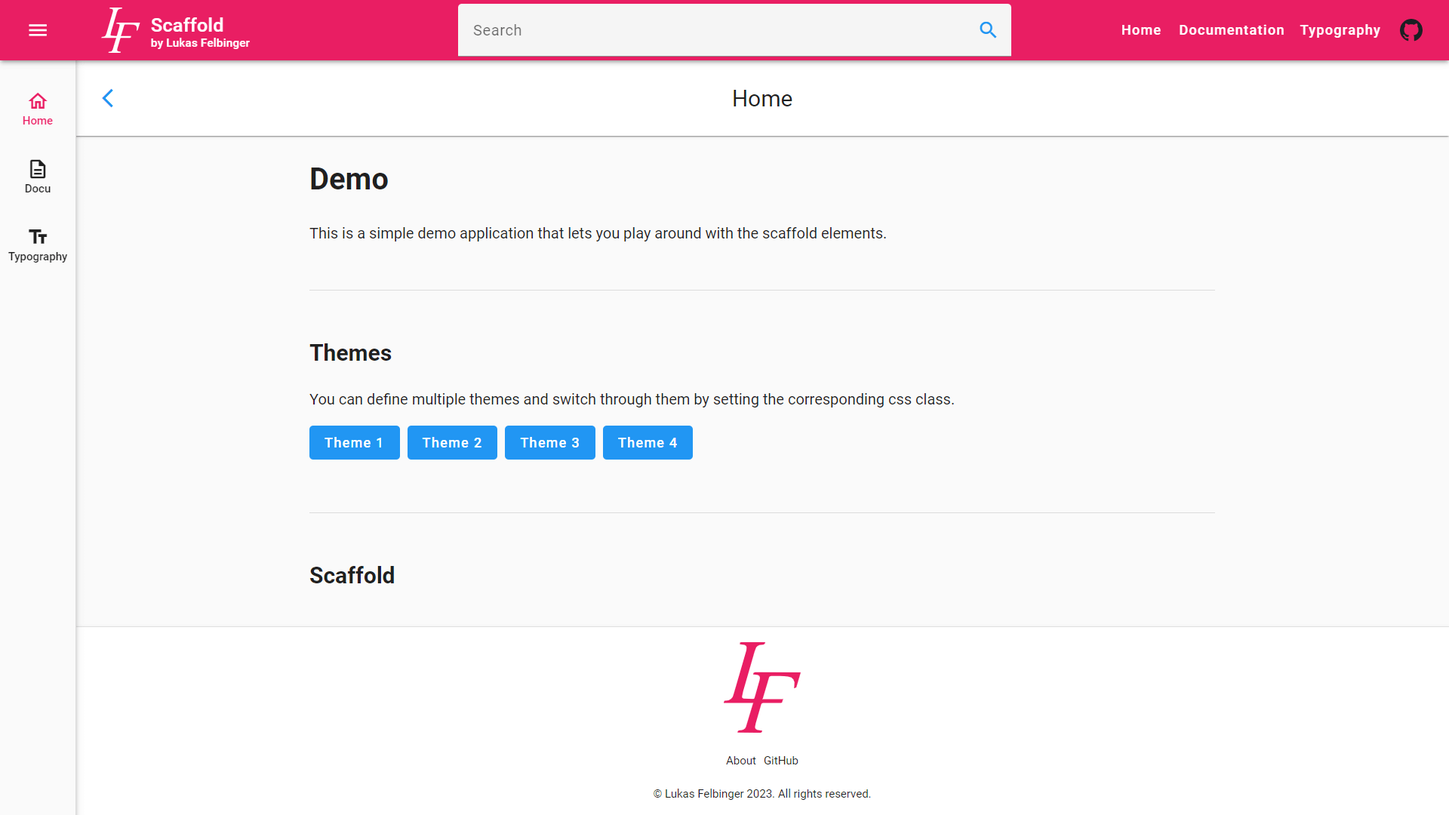
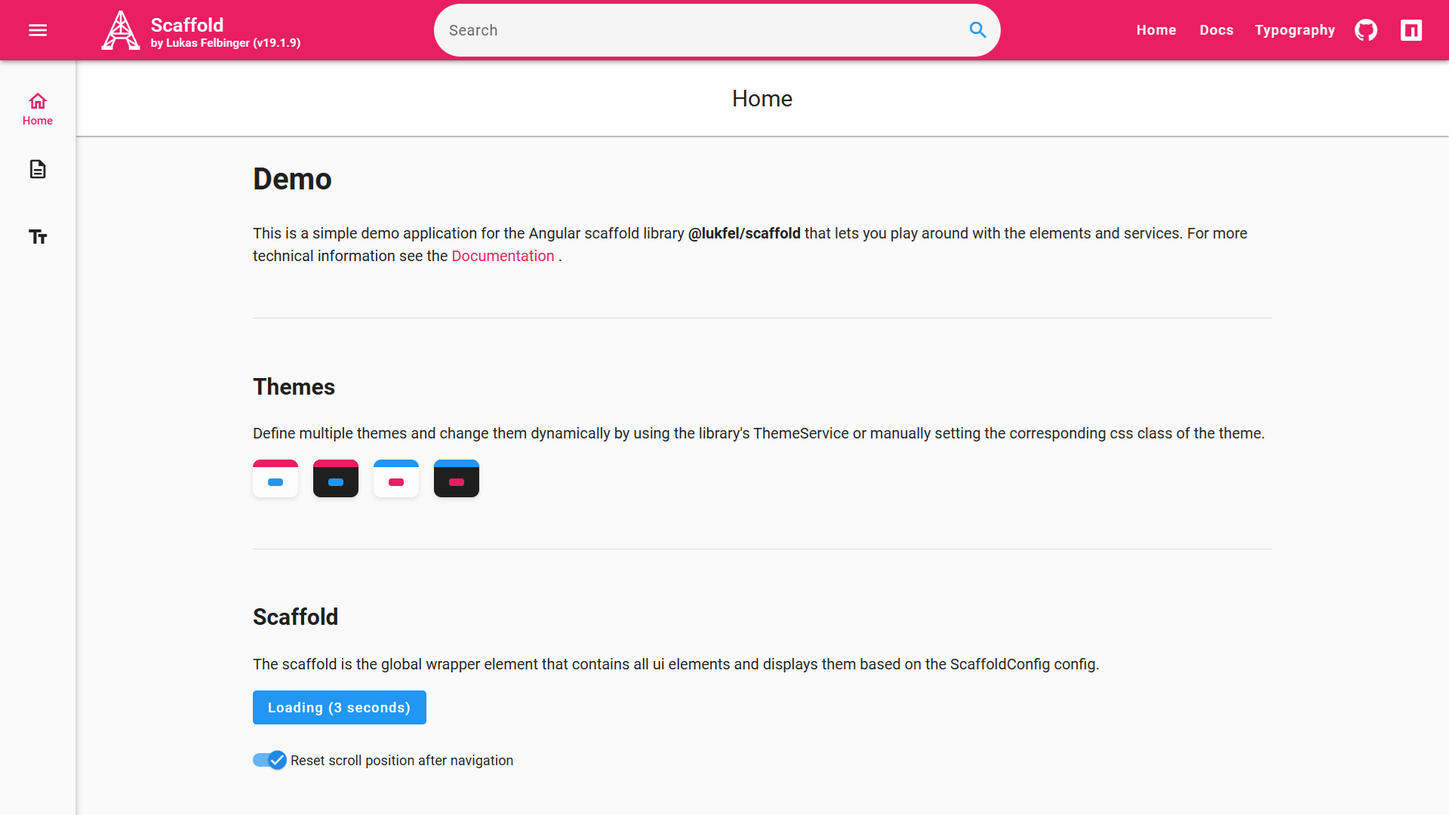
Auto-generated commit

diff --git a/chunk-QRNLTUWT.js b/chunk-QRNLTUWT.js
@@ -1,0 +1,1 @@
+import{a as se}from"./chunk-F6NTNXR2.js";import{a as pe}from"./chunk-O557RS5J.js";import{$ as x,$a as K,B as d,C as _,Fb as le,Ja as H,Jb as ge,K as m,L as M,La as L,Ma as z,N as O,Na as Y,O as B,P as w,Qa as q,Rb as me,S as f,Sa as G,Sb as de,Tb as _e,U as i,V as o,W as C,Wb as ce,X as S,Y as b,Z as T,_ as h,_a as J,aa as g,ab as Q,cb as U,d as I,da as V,db as X,ea as a,eb as Z,fa as k,fb as $,ga as y,ha as c,hb as ee,ia as s,ja as p,ka as W,la as P,mb as te,oa as F,pb as ne,qa as D,ta as R,tb as ie,ua as N,ub as oe,v,va as j,vb as ae,xa as A,yb as re}from"./chunk-YO5GDWHF.js";var xe=()=>["/documentation"],we=l=>({menuButton:l,isLeftButton:!0}),Se=l=>({menuButton:l}),be=()=>["left","center","right"];function Me(l,u){if(l&1&&(S(0),T(1,18),b()),l&2){let t=u.$implicit;g(4);let r=V(2);m(),f("ngTemplateOutlet",r)("ngTemplateOutletContext",P(2,Se,t))}}function ye(l,u){if(l&1){let t=h();i(0,"h4"),a(1,"Left Button (Icon only)"),o(),T(2,18),i(3,"h4"),a(4,"Right Buttons (Label has priority over icon)"),o(),w(5,Me,2,4,"ng-container",19),i(6,"button",13),x("click",function(){d(t);let e=g(3);return _(e.addHeaderButton(!1))}),a(7," Add right menu button "),o()}if(l&2){let t=g(3),r=V(2);m(2),f("ngTemplateOutlet",r)("ngTemplateOutletContext",P(3,we,t.headerConfig.leftMenuButton)),m(3),f("ngForOf",t.headerConfig.rightMenuButtons)}}function ve(l,u){if(l&1){let t=h();S(0),i(1,"h2"),a(2,"Header"),o(),i(3,"p"),a(4," The header is a fixed responsive toolbar with a customizable logo, title, subtitle, menu-buttons and an input field. "),o(),i(5,"p")(6,"mat-slide-toggle",14),p("ngModelChange",function(e){d(t);let n=g(2);return s(n.headerConfig.enable,e)||(n.headerConfig.enable=e),_(e)}),a(7,"Enable"),o()(),i(8,"p")(9,"mat-slide-toggle",14),p("ngModelChange",function(e){d(t);let n=g(2);return s(n.headerConfig.loading,e)||(n.headerConfig.loading=e),_(e)}),a(10,"Loading"),o()(),i(11,"p")(12,"mat-slide-toggle",14),p("ngModelChange",function(e){d(t);let n=g(2);return s(n.headerConfig.showRouteLoading,e)||(n.headerConfig.showRouteLoading=e),_(e)}),a(13," Show header loading on navigation "),o()(),i(14,"mat-form-field")(15,"mat-label"),a(16,"Image Logo (url)"),o(),i(17,"input",16),p("ngModelChange",function(e){d(t);let n=g(2);return s(n.headerConfig.imgLogo,e)||(n.headerConfig.imgLogo=e),_(e)}),x("ngModelChange",function(e){d(t);let n=g(2);return _(n.headerImgLogoChange(e))}),o()(),i(18,"mat-form-field")(19,"mat-label"),a(20,"Titel"),o(),i(21,"input",16),p("ngModelChange",function(e){d(t);let n=g(2);return s(n.headerConfig.title,e)||(n.headerConfig.title=e),_(e)}),o()(),i(22,"mat-form-field")(23,"mat-label"),a(24,"Subtitel"),o(),i(25,"input",16),p("ngModelChange",function(e){d(t);let n=g(2);return s(n.headerConfig.subtitle,e)||(n.headerConfig.subtitle=e),_(e)}),o()(),i(26,"h3"),a(27,"Header Menu Buttons"),o(),i(28,"mat-expansion-panel")(29,"mat-expansion-panel-header"),a(30,"Edit Buttons"),o(),w(31,ye,8,5,"ng-template",17),o(),i(32,"h3"),a(33,"Header Input Field"),o(),i(34,"p")(35,"mat-slide-toggle",14),p("ngModelChange",function(e){d(t);let n=g(2);return s(n.headerConfig.inputConfig.enable,e)||(n.headerConfig.inputConfig.enable=e),_(e)}),a(36,"Enable"),o()(),i(37,"p"),a(38),o(),i(39,"mat-form-field")(40,"mat-label"),a(41,"Label"),o(),i(42,"input",16),p("ngModelChange",function(e){d(t);let n=g(2);return s(n.headerConfig.inputConfig.label,e)||(n.headerConfig.inputConfig.label=e),_(e)}),o()(),i(43,"mat-form-field")(44,"mat-label"),a(45,"Material Icon"),o(),i(46,"input",16),p("ngModelChange",function(e){d(t);let n=g(2);return s(n.headerConfig.inputConfig.matIconSubmit,e)||(n.headerConfig.inputConfig.matIconSubmit=e),_(e)}),o()(),C(47,"mat-divider"),b()}if(l&2){let t=g(2);m(6),c("ngModel",t.headerConfig.enable),m(3),c("ngModel",t.headerConfig.loading),m(3),c("ngModel",t.headerConfig.showRouteLoading),m(5),c("ngModel",t.headerConfig.imgLogo),m(4),c("ngModel",t.headerConfig.title),m(4),c("ngModel",t.headerConfig.subtitle),m(10),c("ngModel",t.headerConfig.inputConfig.enable),m(3),y("\xA0Value: ",t.inputValue||"empty",""),m(4),c("ngModel",t.headerConfig.inputConfig.label),m(4),c("ngModel",t.headerConfig.inputConfig.matIconSubmit)}}function Be(l,u){if(l&1){let t=h();S(0),i(1,"h2"),a(2,"Title Card"),o(),i(3,"p"),a(4," The title card is a card below the header that can display a custom label such as a page title and also has a back button. "),o(),i(5,"p")(6,"mat-slide-toggle",14),p("ngModelChange",function(e){d(t);let n=g(2);return s(n.contentTitleCardConfig.enable,e)||(n.contentTitleCardConfig.enable=e),_(e)}),a(7,"Enable"),o()(),i(8,"p")(9,"mat-slide-toggle",14),p("ngModelChange",function(e){d(t);let n=g(2);return s(n.contentTitleCardConfig.showBackButton,e)||(n.contentTitleCardConfig.showBackButton=e),_(e)}),a(10," Show back button "),o()(),i(11,"mat-form-field")(12,"mat-label"),a(13,"Label"),o(),i(14,"input",16),p("ngModelChange",function(e){d(t);let n=g(2);return s(n.contentTitleCardConfig.label,e)||(n.contentTitleCardConfig.label=e),_(e)}),o()(),C(15,"mat-divider"),b()}if(l&2){let t=g(2);m(6),c("ngModel",t.contentTitleCardConfig.enable),m(3),c("ngModel",t.contentTitleCardConfig.showBackButton),m(5),c("ngModel",t.contentTitleCardConfig.label)}}function Ee(l,u){if(l&1){let t=h();S(0),i(1,"h2"),a(2,"Navbar"),o(),i(3,"p"),a(4," The navbar is a fixed navigation element that is positioned vertically left on desktop and responsively moves to the bottom horizontally on mobile. It can show up to 5 navigation items. "),o(),i(5,"p")(6,"mat-slide-toggle",14),p("ngModelChange",function(e){d(t);let n=g(2);return s(n.navbarConfig.enable,e)||(n.navbarConfig.enable=e),_(e)}),a(7,"Enable"),o()(),i(8,"p")(9,"mat-slide-toggle",14),p("ngModelChange",function(e){d(t);let n=g(2);return s(n.navbarConfig.showAllLabels,e)||(n.navbarConfig.showAllLabels=e),_(e)}),a(10," Always show labels "),o()(),C(11,"mat-divider"),b()}if(l&2){let t=g(2);m(6),c("ngModel",t.navbarConfig.enable),m(3),c("ngModel",t.navbarConfig.showAllLabels)}}function Te(l,u){if(l&1){let t=h();S(0),i(1,"h2"),a(2,"Drawer"),o(),i(3,"p"),a(4," The drawer is a collapsible element that allows you to place custom dynamic side content. It is responsive and changes to overlay mode on mobile. "),o(),i(5,"p")(6,"mat-slide-toggle",14),p("ngModelChange",function(e){d(t);let n=g(2);return s(n.drawerConfig.enable,e)||(n.drawerConfig.enable=e),_(e)}),a(7,"Enable"),o()(),i(8,"p")(9,"mat-slide-toggle",14),p("ngModelChange",function(e){d(t);let n=g(2);return s(n.drawerConfig.open,e)||(n.drawerConfig.open=e),_(e)}),a(10,"Open"),o()(),i(11,"p")(12,"mat-slide-toggle",14),p("ngModelChange",function(e){d(t);let n=g(2);return s(n.drawerConfig.fixed,e)||(n.drawerConfig.fixed=e),_(e)}),a(13,"Fixed"),o()(),i(14,"p"),a(15," Content can either be set 1) by using content projection "),i(16,"code"),a(17,"<ng-content drawerContent>"),o(),a(18," or 2) by using the component portal "),i(19,"code"),a(20,"scaffoldService.drawerPortal"),o(),a(21," . "),o(),i(22,"button",13),x("click",function(){d(t);let e=g(2);return _(e.updateDrawerContent(!0))}),a(23,"1 Navigation"),o(),i(24,"button",20),x("click",function(){d(t);let e=g(2);return _(e.updateDrawerContent(!1))}),a(25," 2 Not found "),o(),C(26,"mat-divider"),b()}if(l&2){let t=g(2);m(6),c("ngModel",t.drawerConfig.enable),m(3),c("ngModel",t.drawerConfig.open),m(3),c("ngModel",t.drawerConfig.fixed)}}function Ve(l,u){if(l&1){let t=h();S(0),i(1,"h2"),a(2,"Footer"),o(),i(3,"p"),a(4,"The footer is a simple bottom element with a logo, navigation links and the copyright."),o(),i(5,"p")(6,"mat-slide-toggle",14),p("ngModelChange",function(e){d(t);let n=g(2);return s(n.footerConfig.enable,e)||(n.footerConfig.enable=e),_(e)}),a(7,"Enable"),o()(),i(8,"mat-form-field")(9,"mat-label"),a(10,"Image Logo (url)"),o(),i(11,"input",16),p("ngModelChange",function(e){d(t);let n=g(2);return s(n.footerConfig.imgLogo,e)||(n.footerConfig.imgLogo=e),_(e)}),x("ngModelChange",function(e){d(t);let n=g(2);return _(n.footerImgLogoChange(e))}),o()(),i(12,"mat-form-field")(13,"mat-label"),a(14,"Copyright"),o(),i(15,"input",16),p("ngModelChange",function(e){d(t);let n=g(2);return s(n.footerConfig.copyright,e)||(n.footerConfig.copyright=e),_(e)}),o()(),C(16,"mat-divider"),b()}if(l&2){let t=g(2);m(6),c("ngModel",t.footerConfig.enable),m(5),c("ngModel",t.footerConfig.imgLogo),m(4),c("ngModel",t.footerConfig.copyright)}}function We(l,u){if(l&1&&(i(0,"mat-icon",25),a(1),o()),l&2){let t=g(3);m(),y(" ",t.floatingButtonConfig.matIcon," ")}}function Pe(l,u){if(l&1){let t=h();i(0,"mat-slide-toggle",26),p("ngModelChange",function(e){d(t);let n=g(3);return s(n.floatingButtonConfig.outlineIcon,e)||(n.floatingButtonConfig.outlineIcon=e),_(e)}),a(1," Outlined \xA0\xA0 "),o()}if(l&2){let t=g(3);c("ngModel",t.floatingButtonConfig.outlineIcon)}}function Le(l,u){if(l&1&&(i(0,"mat-option",27),a(1),o()),l&2){let t=u.$implicit;f("value",t),m(),y(" ",t," ")}}function Ie(l,u){if(l&1){let t=h();S(0),i(1,"h2"),a(2,"Floating Button"),o(),i(3,"p"),a(4," The floating button is a fixed action button that scrolls to the top on default, but you can also add an id for custom actions. By adding a label, the button will expand into a rounded rectangle shape. "),o(),i(5,"p")(6,"mat-slide-toggle",14),p("ngModelChange",function(e){d(t);let n=g(2);return s(n.floatingButtonConfig.enable,e)||(n.floatingButtonConfig.enable=e),_(e)}),a(7,"Enable"),o()(),i(8,"mat-form-field")(9,"mat-label"),a(10,"Event id"),o(),i(11,"input",16),p("ngModelChange",function(e){d(t);let n=g(2);return s(n.floatingButtonConfig.id,e)||(n.floatingButtonConfig.id=e),_(e)}),o()(),i(12,"mat-form-field")(13,"mat-label"),a(14,"Label"),o(),i(15,"input",16),p("ngModelChange",function(e){d(t);let n=g(2);return s(n.floatingButtonConfig.label,e)||(n.floatingButtonConfig.label=e),_(e)}),o()(),i(16,"mat-form-field",21)(17,"mat-label"),a(18,"Material Icon"),o(),i(19,"input",16),p("ngModelChange",function(e){d(t);let n=g(2);return s(n.floatingButtonConfig.matIcon,e)||(n.floatingButtonConfig.matIcon=e),_(e)}),o(),w(20,We,2,1,"mat-icon",22)(21,Pe,2,1,"mat-slide-toggle",23),o(),i(22,"mat-form-field")(23,"mat-label"),a(24,"Position"),o(),i(25,"mat-select",14),p("ngModelChange",function(e){d(t);let n=g(2);return s(n.floatingButtonConfig.horizontalPosition,e)||(n.floatingButtonConfig.horizontalPosition=e),_(e)}),w(26,Le,2,2,"mat-option",24),o()(),i(27,"mat-form-field")(28,"mat-label"),a(29,"Tooltip"),o(),i(30,"input",16),p("ngModelChange",function(e){d(t);let n=g(2);return s(n.floatingButtonConfig.tooltip,e)||(n.floatingButtonConfig.tooltip=e),_(e)}),o()(),C(31,"mat-divider"),b()}if(l&2){let t=g(2);m(6),c("ngModel",t.floatingButtonConfig.enable),m(5),c("ngModel",t.floatingButtonConfig.id),m(4),c("ngModel",t.floatingButtonConfig.label),m(4),c("ngModel",t.floatingButtonConfig.matIcon),m(),f("ngIf",t.floatingButtonConfig.matIcon),m(),f("ngIf",t.floatingButtonConfig==null?null:t.floatingButtonConfig.matIcon),m(4),c("ngModel",t.floatingButtonConfig.horizontalPosition),m(),f("ngForOf",W(9,be)),m(4),c("ngModel",t.floatingButtonConfig.tooltip)}}function Oe(l,u){if(l&1){let t=h();i(0,"p")(1,"mat-checkbox",14),p("ngModelChange",function(e){let n=d(t).$implicit;return s(n.checked,e)||(n.checked=e),_(e)}),x("ngModelChange",function(){d(t);let e=g(3);return _(e.selectBottomBarItem())}),a(2),o()()}if(l&2){let t=u.$implicit;m(),c("ngModel",t.checked),m(),y(" ",t.label," ")}}function ke(l,u){if(l&1&&(S(0),i(1,"h2"),a(2,"Bottom Bar"),o(),i(3,"p"),a(4," The bottom bar is a fixed element at the bottom of the page and above the mobile navbar (if enabled). It can be used to handle custom bulk actions for selected items in large lists. "),o(),i(5,"p"),a(6,"(select items to test the bottom bar)"),o(),w(7,Oe,3,2,"p",19),b()),l&2){let t=g(2);m(7),f("ngForOf",t.bottomBarDemoList)}}function Fe(l,u){if(l&1){let t=h();i(0,"div",2)(1,"h1"),a(2,"Demo"),o(),i(3,"p"),a(4," This is a simple demo application for the Angular scaffold library "),i(5,"b"),a(6,"@lukfel/scaffold"),o(),a(7," that lets you play around with the elements and services. For more technical information see the "),i(8,"a",3),a(9,"Documentation"),o(),a(10," . "),o(),C(11,"mat-divider"),i(12,"h2"),a(13,"Themes"),o(),i(14,"p"),a(15," Define multiple themes and change them dynamically by using the library's ThemeService or manually setting the corresponding css class of the theme. "),o(),i(16,"div",4)(17,"div",5),x("click",function(){d(t);let e=g();return _(e.setTheme(""))}),i(18,"div",6),C(19,"div",7),i(20,"div",8),C(21,"div",9),o()()(),i(22,"div",10),x("click",function(){d(t);let e=g();return _(e.setTheme("theme2"))}),i(23,"div",6),C(24,"div",7),i(25,"div",8),C(26,"div",9),o()()(),i(27,"div",5),x("click",function(){d(t);let e=g();return _(e.setTheme("theme3"))}),i(28,"div",6),C(29,"div",11),i(30,"div",8),C(31,"div",12),o()()(),i(32,"div",10),x("click",function(){d(t);let e=g();return _(e.setTheme("theme4"))}),i(33,"div",6),C(34,"div",11),i(35,"div",8),C(36,"div",12),o()()()(),C(37,"mat-divider"),i(38,"h2"),a(39,"Scaffold"),o(),i(40,"p"),a(41," The scaffold is the global wrapper element that contains all ui elements and displays them based on the ScaffoldConfig config. "),o(),i(42,"p")(43,"button",13),x("click",function(){d(t);let e=g();return _(e.showContainerLoading())}),a(44," Loading (3 seconds) "),o()(),i(45,"p")(46,"mat-slide-toggle",14),p("ngModelChange",function(e){d(t);let n=g();return s(n.scaffoldConfig.scrollPositionRestoration,e)||(n.scaffoldConfig.scrollPositionRestoration=e),_(e)}),a(47," Reset scroll position after navigation "),o()(),C(48,"mat-divider"),w(49,ve,48,10,"ng-container",15)(50,Be,16,3,"ng-container",15)(51,Ee,12,2,"ng-container",15)(52,Te,27,3,"ng-container",15)(53,Ve,17,3,"ng-container",15)(54,Ie,32,10,"ng-container",15)(55,ke,8,1,"ng-container",15),i(56,"p"),C(57,"br"),o()()}if(l&2){let t=g();m(8),f("routerLink",W(9,xe)),m(38),c("ngModel",t.scaffoldConfig.scrollPositionRestoration),m(3),f("ngIf",t.headerConfig),m(),f("ngIf",t.contentTitleCardConfig),m(),f("ngIf",t.navbarConfig),m(),f("ngIf",t.drawerConfig),m(),f("ngIf",t.footerConfig),m(),f("ngIf",t.floatingButtonConfig),m(),f("ngIf",t.bottomBarConfig)}}function De(l,u){if(l&1&&(i(0,"mat-icon",25),a(1),o()),l&2){let t=g(2).menuButton;m(),k(t.matIcon)}}function Re(l,u){if(l&1){let t=h();i(0,"mat-slide-toggle",26),p("ngModelChange",function(e){d(t);let n=g(2).menuButton;return s(n.outlineIcon,e)||(n.outlineIcon=e),_(e)}),a(1," Outlined \xA0\xA0 "),o()}if(l&2){let t=g(2).menuButton;c("ngModel",t.outlineIcon)}}function Ne(l,u){if(l&1){let t=h();i(0,"div",29)(1,"mat-form-field")(2,"mat-label"),a(3,"Event id"),o(),i(4,"input",16),p("ngModelChange",function(e){d(t);let n=g().menuButton;return s(n.id,e)||(n.id=e),_(e)}),o()(),i(5,"mat-form-field")(6,"mat-label"),a(7,"Label"),o(),i(8,"input",30),p("ngModelChange",function(e){d(t);let n=g().menuButton;return s(n.label,e)||(n.label=e),_(e)}),o()(),i(9,"mat-form-field",21)(10,"mat-label"),a(11,"Material Icon"),o(),i(12,"input",16),p("ngModelChange",function(e){d(t);let n=g().menuButton;return s(n.matIcon,e)||(n.matIcon=e),_(e)}),o(),w(13,De,2,1,"mat-icon",22)(14,Re,2,1,"mat-slide-toggle",23),o(),i(15,"mat-form-field")(16,"mat-label"),a(17,"Tooltop"),o(),i(18,"input",16),p("ngModelChange",function(e){d(t);let n=g().menuButton;return s(n.tooltip,e)||(n.tooltip=e),_(e)}),o()(),i(19,"button",31),x("click",function(){d(t);let e=g(),n=e.menuButton,E=e.isLeftButton,he=g();return _(he.removeHeaderButton(n,E))}),i(20,"mat-icon"),a(21,"delete"),o()()()}if(l&2){let t=g(),r=t.menuButton,e=t.isLeftButton;m(4),c("ngModel",r.id),m(4),f("disabled",e),c("ngModel",r.label),m(4),c("ngModel",r.matIcon),m(),f("ngIf",r.matIcon),m(),f("ngIf",r.matIcon),m(4),c("ngModel",r.tooltip)}}function je(l,u){if(l&1&&w(0,Ne,22,7,"div",28),l&2){let t=u.menuButton;f("ngIf",t)}}var ue=(()=>{class l{constructor(t,r,e,n,E){this.scaffoldService=t,this.themeService=r,this.dialogService=e,this.logger=n,this.cd=E,this.scaffoldConfig={},this.headerConfig={},this.navbarConfig={},this.drawerConfig={},this.footerConfig={},this.contentTitleCardConfig={},this.floatingButtonConfig={},this.bottomBarConfig={},this.bottomBarDemoList=[{checked:!1,label:"Demo item 1"},{checked:!1,label:"Demo item 2"},{checked:!1,label:"Demo item 3"}],this.inputValue="",this._subscription=new I}ngOnInit(){this._subscription.add(this.scaffoldService.scaffoldConfig$.subscribe(t=>{this.scaffoldConfig=t,this.headerConfig=this.scaffoldConfig.headerConfig,this.navbarConfig=this.scaffoldConfig.navbarConfig,this.drawerConfig=this.scaffoldConfig.drawerConfig,this.footerConfig=this.scaffoldConfig.footerConfig,this.contentTitleCardConfig=this.scaffoldConfig.contentTitleCardConfig,this.contentTitleCardConfig&&(this.contentTitleCardConfig.label="Home"),this.floatingButtonConfig=this.scaffoldConfig.floatingButtonConfig,this.bottomBarConfig=this.scaffoldConfig.bottomBarConfig})),this._subscription.add(this.scaffoldService.buttonClickEventValue$.subscribe(t=>{t==="bottom-bar_submit"?this.bottomBarButtonClicked():t==="bottom-bar_close"&&this.bottomBarCloseClicked()})),this._subscription.add(this.scaffoldService.headerInputChangeValue$.subscribe(t=>{this.inputValue=t,this.inputValue||this.cd.detectChanges()}))}ngOnDestroy(){this._subscription&&this._subscription.unsubscribe()}showContainerLoading(){this.scaffoldService.updateScaffoldProperty("loading",!0),setTimeout(()=>{this.scaffoldService.updateScaffoldProperty("loading",!1)},3e3)}headerImgLogoChange(t){t?this.headerConfig.svgLogo="":this.headerConfig.svgLogo="logo"}footerImgLogoChange(t){t?this.footerConfig.svgLogo="":this.footerConfig.svgLogo="logo"}setTheme(t){this.themeService.setTheme(t,!0)}addHeaderButton(t){t?t&&!this.headerConfig?.leftMenuButton&&(this.headerConfig.leftMenuButton={id:""}):this.headerConfig.rightMenuButtons?.push({id:""})}removeHeaderButton(t,r){r?r&&this.headerConfig?.leftMenuButton===t&&(this.headerConfig.leftMenuButton=void 0):this.headerConfig.rightMenuButtons=this.headerConfig.rightMenuButtons?.filter(e=>e!==t)}updateDrawerContent(t){this.scaffoldService.drawerPortal=t?null:se}bottomBarCloseClicked(){this.bottomBarDemoList.forEach(t=>t.checked=!1),this.updateBottomBar()}bottomBarButtonClicked(){let t=this.bottomBarDemoList.filter(r=>r.checked).length;this.dialogService.openConfirmDialog({title:"Selection:",message:`You have selected ${t} items`,closeLabel:"Close",confirmLabel:"Confirm"}).then(r=>{this.logger.log("close result: ",r)})}selectBottomBarItem(){this.updateBottomBar()}updateBottomBar(){let t=this.bottomBarDemoList.filter(r=>r.checked).length;t>0?(this.bottomBarConfig.enable=!0,this.bottomBarConfig.message=`${t} selected`,this.bottomBarConfig.actions=[{id:"bottom-bar_submit",label:"Submit"}]):this.bottomBarConfig.enable=!1}static{this.\u0275fac=function(r){return new(r||l)(M(_e),M(ce),M(me),M(de),M(D))}}static{this.\u0275cmp=O({type:l,selectors:[["app-startpage"]],standalone:!1,decls:3,vars:1,consts:[["menuButtonFormTemplate",""],["class","lf-startpage",4,"ngIf"],[1,"lf-startpage"],[1,"lf-link",3,"routerLink"],[1,"theme-selector"],[1,"theme-button","light",3,"click"],[1,"preview"],[1,"header","pink"],[1,"body"],[1,"accent","blue"],[1,"theme-button","dark",3,"click"],[1,"header","blue"],[1,"accent","pink"],["mat-flat-button","","color","accent",3,"click"],[3,"ngModelChange","ngModel"],[4,"ngIf"],["matInput","",3,"ngModelChange","ngModel"],["matExpansionPanelContent",""],[3,"ngTemplateOutlet","ngTemplateOutletContext"],[4,"ngFor","ngForOf"],["mat-flat-button","","color","primary",3,"click"],[1,"lf-form-field-small"],["matPrefix","",4,"ngIf"],["matSuffix","",3,"ngModel","ngModelChange",4,"ngIf"],[3,"value",4,"ngFor","ngForOf"],["matPrefix",""],["matSuffix","",3,"ngModelChange","ngModel"],[3,"value"],["class","mb-2",4,"ngIf"],[1,"mb-2"],["matInput","",3,"ngModelChange","disabled","ngModel"],["mat-icon-button","","color","warn","matTooltip","Remove button",3,"click"]],template:function(r,e){r&1&&w(0,Fe,58,10,"div",1)(1,je,1,1,"ng-template",null,0,F),r&2&&f("ngIf",e.scaffoldConfig)},dependencies:[R,N,j,H,ne,Y,z,ee,$,U,X,Z,te,le,ge,re,oe,ae,ie,q,G,J,K,Q],styles:[".lf-startpage[_ngcontent-%COMP%]{max-width:1080px;margin:auto}.lf-startpage[_ngcontent-%COMP%]   .theme-selector[_ngcontent-%COMP%]{display:flex;gap:16px}.lf-startpage[_ngcontent-%COMP%]   .theme-button[_ngcontent-%COMP%]{width:48px;height:40px;border-radius:8px;overflow:hidden;display:flex;align-items:center;justify-content:center;box-shadow:0 2px 5px #0000001a;transition:transform .2s;cursor:pointer}.lf-startpage[_ngcontent-%COMP%]   .theme-button.light[_ngcontent-%COMP%]{background-color:#fdfdfd}.lf-startpage[_ngcontent-%COMP%]   .theme-button.dark[_ngcontent-%COMP%]{background-color:#1e1e1e}.lf-startpage[_ngcontent-%COMP%]   .theme-button[_ngcontent-%COMP%]:hover{transform:scale(1.05)}.lf-startpage[_ngcontent-%COMP%]   .theme-button[_ngcontent-%COMP%]   .preview[_ngcontent-%COMP%]{width:100%;height:100%;display:flex;flex-direction:column;align-items:center;border-radius:6px;overflow:hidden}.lf-startpage[_ngcontent-%COMP%]   .theme-button[_ngcontent-%COMP%]   .preview[_ngcontent-%COMP%]   .header[_ngcontent-%COMP%]{width:100%;height:8px}.lf-startpage[_ngcontent-%COMP%]   .theme-button[_ngcontent-%COMP%]   .preview[_ngcontent-%COMP%]   .body[_ngcontent-%COMP%]{flex:1;display:flex;align-items:center;justify-content:center}.lf-startpage[_ngcontent-%COMP%]   .theme-button[_ngcontent-%COMP%]   .preview[_ngcontent-%COMP%]   .accent[_ngcontent-%COMP%]{width:16px;height:8px;border-radius:3px}.lf-startpage[_ngcontent-%COMP%]   .theme-button[_ngcontent-%COMP%]   .preview[_ngcontent-%COMP%]   .pink[_ngcontent-%COMP%]{background-color:#e91e63}.lf-startpage[_ngcontent-%COMP%]   .theme-button[_ngcontent-%COMP%]   .preview[_ngcontent-%COMP%]   .blue[_ngcontent-%COMP%]{background-color:#2196f3}.lf-startpage[_ngcontent-%COMP%]   mat-divider[_ngcontent-%COMP%]{margin:64px 0}.lf-startpage[_ngcontent-%COMP%]   mat-form-field[_ngcontent-%COMP%]{margin:0 8px 8px 0}.lf-startpage[_ngcontent-%COMP%]   mat-form-field[_ngcontent-%COMP%]     .mat-mdc-form-field-subscript-wrapper{display:none}.lf-startpage[_ngcontent-%COMP%]   .lf-form-field-small[_ngcontent-%COMP%]     .mat-mdc-form-field-infix{width:112px!important}.lf-startpage[_ngcontent-%COMP%]   button[_ngcontent-%COMP%]{margin:0 8px 8px 0}.lf-startpage[_ngcontent-%COMP%]   .lf-link[_ngcontent-%COMP%]{text-decoration:unset;color:var(--color-primary)}.lf-startpage[_ngcontent-%COMP%]   .lf-link[_ngcontent-%COMP%]:hover{text-decoration:underline}"]})}}return l})();var Ae=[{path:"",component:ue}],Ce=(()=>{class l{static{this.\u0275fac=function(r){return new(r||l)}}static{this.\u0275mod=B({type:l})}static{this.\u0275inj=v({imports:[L.forChild(Ae),L]})}}return l})();var st=(()=>{class l{static{this.\u0275fac=function(r){return new(r||l)}}static{this.\u0275mod=B({type:l})}static{this.\u0275inj=v({imports:[A,Ce,pe]})}}return l})();export{st as StartpageModule};

diff --git a/main-2TUPL73A.js b/main-2TUPL73A.js
@@ -1,0 +1,1 @@
+import{a as Fe}from"./chunk-O557RS5J.js";import{$ as ie,$b as De,Aa as fe,Ab as Te,Bb as _e,Ca as me,Cb as ke,D as Z,Da as de,Db as Re,Ea as he,F as X,Fa as ve,Ga as be,Ha as we,Ia as Ie,J as q,Ja as Ce,K as f,Ka as Ee,L as l,La as H,N as Q,O as E,P as B,Pa as Se,Q as ee,Qa as ye,Qb as Oe,R as F,Rb as je,S as m,Sb as xe,Tb as Le,U as d,Ub as Be,V as c,Vb as Ne,W as N,X as te,Xb as Ae,Y as re,_b as Pe,a as K,aa as $,da as oe,e as j,ea as v,f as x,fa as U,g as Y,ga as ne,i as M,kb as W,l as w,la as se,m as D,n as I,oa as ae,pa as A,ra as le,s as T,sa as ce,ta as ue,u as g,ua as pe,v as C,w as L,x as a,y as _,z as J,za as ge,zb as Me}from"./chunk-YO5GDWHF.js";var k="Service workers are disabled or not supported by this browser",S=class{serviceWorker;worker;registration;events;constructor(o,e){if(this.serviceWorker=o,!o)this.worker=this.events=this.registration=new j(t=>t.error(new Error(k)));else{let t=null,i=new x;this.worker=new j(p=>(t!==null&&p.next(t),i.subscribe(b=>p.next(b))));let s=()=>{let{controller:p}=o;p!==null&&(t=p,i.next(t))};o.addEventListener("controllerchange",s),s(),this.registration=this.worker.pipe(T(()=>o.getRegistration()));let n=new x;this.events=n.asObservable();let u=p=>{let{data:b}=p;b?.type&&n.next(b)};o.addEventListener("message",u),e?.get(F,null,{optional:!0})?.onDestroy(()=>{o.removeEventListener("controllerchange",s),o.removeEventListener("message",u)})}}postMessage(o,e){return new Promise(t=>{this.worker.pipe(I(1)).subscribe(i=>{i.postMessage(K({action:o},e)),t()})})}postMessageWithOperation(o,e,t){let i=this.waitForOperationCompleted(t),s=this.postMessage(o,e);return Promise.all([s,i]).then(([,n])=>n)}generateNonce(){return Math.round(Math.random()*1e7)}eventsOfType(o){let e;return typeof o=="string"?e=t=>t.type===o:e=t=>o.includes(t.type),this.events.pipe(D(e))}nextEventOfType(o){return this.eventsOfType(o).pipe(I(1))}waitForOperationCompleted(o){return new Promise((e,t)=>{this.eventsOfType("OPERATION_COMPLETED").pipe(D(i=>i.nonce===o),I(1),M(i=>{if(i.result!==void 0)return i.result;throw new Error(i.error)})).subscribe({next:e,error:t})})}get isEnabled(){return!!this.serviceWorker}},Ue=(()=>{class r{sw;messages;notificationClicks;subscription;get isEnabled(){return this.sw.isEnabled}pushManager=null;subscriptionChanges=new x;constructor(e){if(this.sw=e,!e.isEnabled){this.messages=w,this.notificationClicks=w,this.subscription=w;return}this.messages=this.sw.eventsOfType("PUSH").pipe(M(i=>i.data)),this.notificationClicks=this.sw.eventsOfType("NOTIFICATION_CLICK").pipe(M(i=>i.data)),this.pushManager=this.sw.registration.pipe(M(i=>i.pushManager));let t=this.pushManager.pipe(T(i=>i.getSubscription()));this.subscription=new j(i=>{let s=t.subscribe(i),n=this.subscriptionChanges.subscribe(i);return()=>{s.unsubscribe(),n.unsubscribe()}})}requestSubscription(e){if(!this.sw.isEnabled||this.pushManager===null)return Promise.reject(new Error(k));let t={userVisibleOnly:!0},i=this.decodeBase64(e.serverPublicKey.replace(/_/g,"/").replace(/-/g,"+")),s=new Uint8Array(new ArrayBuffer(i.length));for(let n=0;n<i.length;n++)s[n]=i.charCodeAt(n);return t.applicationServerKey=s,new Promise((n,u)=>{this.pushManager.pipe(T(h=>h.subscribe(t)),I(1)).subscribe({next:h=>{this.subscriptionChanges.next(h),n(h)},error:u})})}unsubscribe(){if(!this.sw.isEnabled)return Promise.reject(new Error(k));let e=t=>{if(t===null)throw new Error("Not subscribed to push notifications.");return t.unsubscribe().then(i=>{if(!i)throw new Error("Unsubscribe failed!");this.subscriptionChanges.next(null)})};return new Promise((t,i)=>{this.subscription.pipe(I(1),T(e)).subscribe({next:t,error:i})})}decodeBase64(e){return atob(e)}static \u0275fac=function(t){return new(t||r)(a(S))};static \u0275prov=g({token:r,factory:r.\u0275fac})}return r})(),He=(()=>{class r{sw;versionUpdates;unrecoverable;get isEnabled(){return this.sw.isEnabled}constructor(e){if(this.sw=e,!e.isEnabled){this.versionUpdates=w,this.unrecoverable=w;return}this.versionUpdates=this.sw.eventsOfType(["VERSION_DETECTED","VERSION_INSTALLATION_FAILED","VERSION_READY","NO_NEW_VERSION_DETECTED"]),this.unrecoverable=this.sw.eventsOfType("UNRECOVERABLE_STATE")}checkForUpdate(){if(!this.sw.isEnabled)return Promise.reject(new Error(k));let e=this.sw.generateNonce();return this.sw.postMessageWithOperation("CHECK_FOR_UPDATES",{nonce:e},e)}activateUpdate(){if(!this.sw.isEnabled)return Promise.reject(new Error(k));let e=this.sw.generateNonce();return this.sw.postMessageWithOperation("ACTIVATE_UPDATE",{nonce:e},e)}static \u0275fac=function(t){return new(t||r)(a(S))};static \u0275prov=g({token:r,factory:r.\u0275fac})}return r})();var We=new L("");function Xe(){let r=_(R);if(!("serviceWorker"in navigator&&r.enabled!==!1))return;let o=_(We),e=_(X),t=_(F);e.runOutsideAngular(()=>{let i=navigator.serviceWorker,s=()=>i.controller?.postMessage({action:"INITIALIZE"});i.addEventListener("controllerchange",s),t.onDestroy(()=>{i.removeEventListener("controllerchange",s)})}),e.runOutsideAngular(()=>{let i,{registrationStrategy:s}=r;if(typeof s=="function")i=new Promise(n=>s().subscribe(()=>n()));else{let[n,...u]=(s||"registerWhenStable:30000").split(":");switch(n){case"registerImmediately":i=Promise.resolve();break;case"registerWithDelay":i=$e(+u[0]||0);break;case"registerWhenStable":i=Promise.race([t.whenStable(),$e(+u[0])]);break;default:throw new Error(`Unknown ServiceWorker registration strategy: ${r.registrationStrategy}`)}}i.then(()=>navigator.serviceWorker.register(o,{scope:r.scope}).catch(n=>console.error("Service worker registration failed with:",n)))})}function $e(r){return new Promise(o=>setTimeout(o,r))}function qe(r,o){return new S(r.enabled!==!1?navigator.serviceWorker:void 0,o)}var R=class{enabled;scope;registrationStrategy};function Qe(r,o={}){return J([Ue,He,{provide:We,useValue:r},{provide:R,useValue:o},{provide:S,useFactory:qe,deps:[R,Z]},ee(Xe)])}var ze=(()=>{class r{static register(e,t={}){return{ngModule:r,providers:[Qe(e,t)]}}static \u0275fac=function(t){return new(t||r)};static \u0275mod=E({type:r});static \u0275inj=C({providers:[Ue,He]})}return r})();var et=[{path:"",redirectTo:"/start",pathMatch:"full"},{path:"start",loadChildren:()=>import("./chunk-QRNLTUWT.js").then(r=>r.StartpageModule)},{path:"documentation",loadChildren:()=>import("./chunk-AHETJNIE.js").then(r=>r.DocumentationModule)},{path:"typography",loadChildren:()=>import("./chunk-PK4EA3TV.js").then(r=>r.TypographyModule)},{path:"**",loadChildren:()=>import("./chunk-6S2LZ6XL.js").then(r=>r.NotFoundModule)}],Ve=(()=>{class r{static{this.\u0275fac=function(t){return new(t||r)}}static{this.\u0275mod=E({type:r})}static{this.\u0275inj=C({imports:[H.forRoot(et,{useHash:!0,anchorScrolling:"enabled",scrollPositionRestoration:"enabled"}),H]})}}return r})();var z={name:"scaffold-app",version:"19.1.10",scripts:{ng:"ng",start:"ng serve",build:"ng build --configuration production",watch:"ng build --watch --configuration development",test:"ng test --browsers ChromeHeadless --code-coverage true --watch false",lint:"ng lint --fix","build-lib":"ng build scaffold --configuration production","watch-lib":"ng build scaffold --watch --configuration development","publish-lib":"npm publish ./dist/scaffold --access public",deploy:"ng deploy --project scaffold-app --base-href /scaffold/ --repo https://github.com/lukfel/scaffold.git"},dependencies:{"@angular/animations":"^19.2.1","@angular/cdk":"^19.2.2","@angular/common":"^19.2.1","@angular/compiler":"^19.2.1","@angular/core":"^19.2.1","@angular/forms":"^19.2.1","@angular/material":"^19.2.2","@angular/platform-browser":"^19.2.1","@angular/platform-browser-dynamic":"^19.2.1","@angular/router":"^19.2.1","@angular/service-worker":"^19.2.1","@lukfel/scaffold":"file:dist/scaffold",marked:"^15.0.0","ngx-markdown":"^19.1.1",rxjs:"~7.8.0",tslib:"^2.3.0","zone.js":"~0.15.0"},devDependencies:{"@angular-devkit/build-angular":"19.2.1","@angular-eslint/builder":"19.2.0","@angular-eslint/eslint-plugin":"19.2.0","@angular-eslint/eslint-plugin-template":"19.2.0","@angular-eslint/schematics":"19.2.0","@angular-eslint/template-parser":"19.2.0","@angular/cli":"~19.2.1","@angular/compiler-cli":"^19.2.1","@types/jasmine":"~4.3.0","@typescript-eslint/eslint-plugin":"^8.26.0","@typescript-eslint/parser":"^8.26.0","angular-cli-ghpages":"^2.0.3",eslint:"^8.45.0","eslint-config-prettier":"^8.10.0","eslint-plugin-prettier":"^5.1.3","eslint-plugin-unused-imports":"^4.1.4","jasmine-core":"~4.5.0",karma:"~6.4.0","karma-chrome-launcher":"~3.1.0","karma-coverage":"~2.2.0","karma-jasmine":"~5.1.0","karma-jasmine-html-reporter":"~2.0.0","ng-packagr":"19.2.0",prettier:"^3.4.1",typescript:"~5.8.2"}};var Ge=(()=>{class r{constructor(e){this.config=e}log(e,...t){this.config?.production===!1&&console.log(e,...t)}warn(e,...t){this.config?.production===!1&&console.warn(e,...t)}error(e,...t){this.config?.production===!1&&console.error(e,...t)}static{this.\u0275fac=function(t){return new(t||r)(a(P,8))}}static{this.\u0275prov=g({token:r,factory:r.\u0275fac,providedIn:"root"})}}return r})();var Ke=(()=>{class r{constructor(e,t){this.logger=e,this.config=t}setItem(e,t){try{let i=JSON.stringify(t);this.config?.debugging&&this.logger.log(`[SET ITEM] ${e} with value:`,i),localStorage.setItem(e,i)}catch(i){this.logger.error(`[ERROR SET ITEM] ${e}: ${i}`)}}setItemEncoded(e,t){try{let i=btoa(JSON.stringify(t));this.config?.debugging&&this.logger.log(`[SET ITEM] ${e} with value:`,i),localStorage.setItem(e,i)}catch(i){this.logger.error(`[ERROR SET ITEM] ${e}: ${i}`)}}getItem(e){try{let t=localStorage.getItem(e);return this.config?.debugging&&this.logger.log(`[GET ITEM] ${e} with value:`,t),t?JSON.parse(t,this.dateReviver):null}catch(t){return this.logger.error(`[ERROR GET ITEM] ${e}: ${t}`),null}}getItemDecoded(e){try{let t=localStorage.getItem(e);return this.config?.debugging&&this.logger.log(`[GET ITEM] ${e} with value:`,t),t?JSON.parse(atob(t),this.dateReviver):null}catch(t){return this.logger.error(`[ERROR GET ITEM] ${e}: ${t}`),null}}getItemUnparsed(e){try{let t=localStorage.getItem(e);return this.config?.debugging&&this.logger.log(`[GET ITEM] ${e} with value:`,t),t||null}catch(t){return this.logger.error(`[ERROR GET ITEM] ${e}: ${t}`),null}}removeItem(e){try{this.config?.debugging&&this.logger.log(`[REMOVE ITEM] ${e}`),localStorage.removeItem(e)}catch(t){this.logger.error(`[ERROR REMOVE ITEM] ${e}: ${t}`)}}clear(){localStorage.clear()}dateReviver(e,t){return typeof t=="string"&&/^\d{4}-\d{2}-\d{2}T\d{2}:\d{2}:\d{2}.\d{3}Z$/.test(t)?new Date(t):t}static{this.\u0275fac=function(t){return new(t||r)(a(Ge),a(P,8))}}static{this.\u0275prov=g({token:r,factory:r.\u0275fac,providedIn:"root"})}}return r})();var V=(()=>{class r{get currentTheme$(){return this._currentTheme$.asObservable()}constructor(e,t){this.storageService=e,this.document=t,this.THEME_KEY="THEME",this._currentTheme$=new Y(""),this.loadTheme()}setTheme(e,t){let i=this._currentTheme$.value;e!==i&&(i&&this.document.body.classList.remove(i),this._currentTheme$.next(e),e?(this.document.body.classList.add(e),t&&this.storageService.setItem(this.THEME_KEY,JSON.stringify(e))):t&&this.storageService.removeItem(this.THEME_KEY))}loadTheme(){let e=this.storageService.getItem(this.THEME_KEY);e&&this.setTheme(e.replace(/"/g,""))}static{this.\u0275fac=function(t){return new(t||r)(a(Ke),a(le))}}static{this.\u0275prov=g({token:r,factory:r.\u0275fac,providedIn:"root"})}}return r})();var P=new L("config");var nt=r=>[r];function st(r,o){if(r&1&&(d(0,"mat-icon",11),v(1),c()),r&2){let e=$().$implicit;f(),ne(" ",e.matIcon," ")}}function at(r,o){if(r&1&&N(0,"mat-icon",12),r&2){let e=$().$implicit;m("svgIcon",e.svgIcon)}}function lt(r,o){if(r&1&&(d(0,"a",8)(1,"span",9),v(2),c(),B(3,st,2,1,"mat-icon",10)(4,at,1,1,"ng-template",null,0,ae),c()),r&2){let e=o.$implicit,t=oe(5);m("routerLink",se(4,nt,e.id)),f(2),U(e.label),f(),m("ngIf",e.matIcon)("ngIfElse",t)}}function ct(r,o){if(r&1&&(d(0,"a",13)(1,"span",14),v(2),c(),N(3,"mat-icon",15),c()),r&2){let e=o.$implicit;m("href",e.id,q),f(2),U(e.label),f(),m("ngClass",e.class)("svgIcon",e.svgIcon)}}var Ye=(()=>{class r{constructor(e,t,i,s,n,u,h,p,b,Ze){this.router=e,this.logger=t,this.snackbarService=i,this.dialogService=s,this.iconRegistry=n,this.sanitizer=u,this.scaffoldService=h,this.breakpointService=p,this.seoService=b,this.themeService=Ze,this.version=z.version,this.scaffoldConfig={loading:!1,scrollPositionRestoration:!0,headerConfig:{enable:!0,svgLogo:"logo",title:"Scaffold",subtitle:`by Lukas Felbinger (v${z.version})`,titleRouterLink:"start",loading:!1,showRouteLoading:!0,leftMenuButton:{id:"drawer",matIcon:"menu",outlineIcon:!0},rightMenuButtons:[{id:"start",label:"Home"},{id:"documentation",label:"Docs"},{id:"typography",label:"Typography"},{id:"github",svgIcon:"github_logo",tooltip:"GitHub",class:"gray-icon"},{id:"npm",svgIcon:"npm_logo",tooltip:"NPM",class:"gray-icon"}],inputConfig:{enable:!0,label:"Search",matIconSubmit:"search",autoFocus:!1}},navbarConfig:{enable:!1,showAllLabels:!1,menuButtons:[{id:"start",label:"Home",matIcon:"home",outlineIcon:!0},{id:"documentation",label:"Docs",matIcon:"description",outlineIcon:!0},{id:"typography",label:"Typography",matIcon:"text_fields",outlineIcon:!0}]},drawerConfig:{enable:!0,open:!0,fixed:!0},footerConfig:{enable:!0,svgLogo:"logo",links:[{label:"About me",href:"https://www.lukasfelbinger.at",externalTab:!0},{label:"GitHub",href:"https://github.com/lukfel/scaffold",externalTab:!0},{label:"NPM",href:"https://www.npmjs.com/package/@lukfel/scaffold",externalTab:!0}],copyright:"\xA9 Lukas Felbinger 2025. All rights reserved."},contentTitleCardConfig:{enable:!0,showBackButton:!0},floatingButtonConfig:{enable:!0,autoHide:!0},bottomBarConfig:{enable:!1}},this.mobileRightMenuButtons=[{id:"menu",matIcon:"more_vert"}],this.externalMenuButtons=[{id:"https://www.create-a-tournament.com",label:"Create A Tournament",svgIcon:"cat_logo",class:"lf-cat-blue"},{id:"https://www.what-a-waste.at",label:"What A Waste",svgIcon:"waw_logo",class:"lf-waw-cyan"}],this.currentTheme="",this.iconRegistry.addSvgIcon("logo",this.sanitizer.bypassSecurityTrustResourceUrl("assets/img/logos/logo.svg")),this.iconRegistry.addSvgIcon("lf_logo",this.sanitizer.bypassSecurityTrustResourceUrl("assets/img/logo.svg")),this.iconRegistry.addSvgIcon("github_logo",this.sanitizer.bypassSecurityTrustResourceUrl("assets/img/github.svg")),this.iconRegistry.addSvgIcon("npm_logo",this.sanitizer.bypassSecurityTrustResourceUrl("assets/img/npm.svg")),this.iconRegistry.addSvgIcon("cat_logo",this.sanitizer.bypassSecurityTrustResourceUrl("assets/img/cat.svg")),this.iconRegistry.addSvgIcon("waw_logo",this.sanitizer.bypassSecurityTrustResourceUrl("assets/img/waw.svg")),this.iconRegistry.addSvgIcon("ugly_logo",this.sanitizer.bypassSecurityTrustResourceUrl("assets/img/uglygotchi.svg")),this.scaffoldService.scaffoldConfig=this.scaffoldConfig;let G=this.scaffoldConfig.headerConfig?.rightMenuButtons||[];this.breakpointService.breakpoint$.subscribe(O=>{this.scaffoldConfig?.headerConfig&&(O.breakpoints[W.XSmall]?(this.mobileRightMenuButtons[0].menuButtons=G,this.scaffoldConfig.headerConfig.rightMenuButtons=this.mobileRightMenuButtons):this.scaffoldConfig.headerConfig.rightMenuButtons=G),this.scaffoldConfig?.navbarConfig?.enable===!1&&O.breakpoints[W.XSmall]&&(this.scaffoldConfig.navbarConfig.enable=!0)}),this.themeService.currentTheme$.subscribe(O=>this.currentTheme=O),this.seoService.setMetaTags({metaPageTitle:"Demo | Scaffold Library",metaPageDescription:"This Angular library provides a basic UI scaffold and services for mordern web and mobile apps",metaImagePath:"scaffold/assets/img/meta.jpg"})}headerButtonClickEvent(e){if(this.snackbarService.openSnackbar(`You clicked the header button with id:   ${e}`),e==="drawer"){this.scaffoldConfig.drawerConfig&&(this.scaffoldConfig.drawerConfig.open=!this.scaffoldConfig.drawerConfig.open);return}else if(e==="github"){window.open("https://github.com/lukfel/scaffold","_blank");return}else if(e==="npm"){window.open("https://www.npmjs.com/package/@lukfel/scaffold","_blank");return}else if(e==="start"||e==="documentation"||e==="typography"){this.router.navigate([e]);return}}headerInputSubmitEvent(e){this.dialogService.openConfirmDialog({title:"You have entered:",message:e,closeLabel:"Close",confirmLabel:"Confirm"}).then(t=>{this.logger.log("close result: ",t)})}headerInputChangeEvent(e){this.logger.log(e)}navbarButtonClickEvent(e){this.router.navigate([e])}floatingButtonClickEvent(e){this.snackbarService.openSnackbar(`You clicked the floating button with id:   ${e}`)}static{this.\u0275fac=function(t){return new(t||r)(l(Ie),l(xe),l(Ne),l(je),l(Se),l(ve),l(Le),l(Oe),l(Be),l(V))}}static{this.\u0275cmp=Q({type:r,selectors:[["app-root"]],standalone:!1,decls:13,vars:2,consts:[["svgIcon",""],[3,"headerButtonClickEvent","headerInputSubmitEvent","headerInputChangeEvent","navbarButtonClickEvent","floatingButtonClickEvent"],["drawerContent",""],[1,"drawer-container"],["mat-subheader","",1,"hint"],["mat-list-item","","routerLinkActive","active",3,"routerLink",4,"ngFor","ngForOf"],["mat-list-item","","target","_blank",3,"href",4,"ngFor","ngForOf"],[1,"p-4","hint"],["mat-list-item","","routerLinkActive","active",3,"routerLink"],["matListItemTitle",""],["matListItemIcon","","class","mx-3 material-icons-outlined",4,"ngIf","ngIfElse"],["matListItemIcon","",1,"mx-3","material-icons-outlined"],["matListItemIcon","",1,"mx-3","material-icons-outlined",3,"svgIcon"],["mat-list-item","","target","_blank",3,"href"],["matListItemTitle","",1,"title-small"],["matListItemIcon","",1,"mx-3",3,"ngClass","svgIcon"]],template:function(t,i){t&1&&(d(0,"lf-scaffold",1),ie("headerButtonClickEvent",function(n){return i.headerButtonClickEvent(n)})("headerInputSubmitEvent",function(n){return i.headerInputSubmitEvent(n)})("headerInputChangeEvent",function(n){return i.headerInputChangeEvent(n)})("navbarButtonClickEvent",function(n){return i.navbarButtonClickEvent(n)})("floatingButtonClickEvent",function(n){return i.floatingButtonClickEvent(n)}),te(1,2),d(2,"div",3)(3,"mat-nav-list")(4,"div",4),v(5,"Navigation"),c(),B(6,lt,6,6,"a",5),d(7,"div",4),v(8,"Other projects"),c(),B(9,ct,4,4,"a",6),c(),d(10,"div",7),v(11," The content of this drawer is customizable through content projection or component portal. "),c()(),re(),N(12,"router-outlet"),c()),t&2&&(f(6),m("ngForOf",i.scaffoldConfig==null||i.scaffoldConfig.navbarConfig==null?null:i.scaffoldConfig.navbarConfig.menuButtons),f(3),m("ngForOf",i.externalMenuButtons))},dependencies:[ce,ue,pe,we,Ce,Ee,Re,_e,Te,ke,Me,ye,Ae],styles:[".drawer-container[_ngcontent-%COMP%]{height:100%;display:flex;flex-flow:column;justify-content:space-between}.drawer-container[_ngcontent-%COMP%]   .active[_ngcontent-%COMP%]   .mat-icon[_ngcontent-%COMP%], .drawer-container[_ngcontent-%COMP%]   .active[_ngcontent-%COMP%]   span[_ngcontent-%COMP%]{font-weight:500;color:var(--color-primary)!important}.drawer-container[_ngcontent-%COMP%]   .mat-icon[_ngcontent-%COMP%]{overflow:unset}.drawer-container[_ngcontent-%COMP%]   .hint[_ngcontent-%COMP%]{font-size:12px;margin-bottom:0}.drawer-container[_ngcontent-%COMP%]   .title-small[_ngcontent-%COMP%]{font-size:14px;line-height:14px;padding-top:2px}"]})}}return r})();var Je=(()=>{class r{static{this.\u0275fac=function(t){return new(t||r)}}static{this.\u0275mod=E({type:r,bootstrap:[Ye]})}static{this.\u0275inj=C({providers:[de(he()),{provide:me,useClass:De,multi:!0}],imports:[fe,be,Ve,Fe,Pe.forRoot({production:!A(),debugging:A()}),ze.register("ngsw-worker.js",{enabled:!A(),registrationStrategy:"registerWhenStable:30000"})]})}}return r})();ge().bootstrapModule(Je).catch(r=>console.error(r));

diff --git a/404.html b/404.html
@@ -70,5 +70,5 @@
       Please enable JavaScript to continue using this application.
     </div>
   </noscript>
-<link rel="modulepreload" href="chunk-O557RS5J.js"><link rel="modulepreload" href="chunk-YO5GDWHF.js"><script src="polyfills-FFHMD2TL.js" type="module"></script><script src="scripts-LS2XAREJ.js" defer></script><script src="main-4EM7YYWJ.js" type="module"></script></body>
+<link rel="modulepreload" href="chunk-O557RS5J.js"><link rel="modulepreload" href="chunk-YO5GDWHF.js"><script src="polyfills-FFHMD2TL.js" type="module"></script><script src="scripts-LS2XAREJ.js" defer></script><script src="main-2TUPL73A.js" type="module"></script></body>
 </html>

diff --git a/index.html b/index.html
@@ -70,5 +70,5 @@
       Please enable JavaScript to continue using this application.
     </div>
   </noscript>
-<link rel="modulepreload" href="chunk-O557RS5J.js"><link rel="modulepreload" href="chunk-YO5GDWHF.js"><script src="polyfills-FFHMD2TL.js" type="module"></script><script src="scripts-LS2XAREJ.js" defer></script><script src="main-4EM7YYWJ.js" type="module"></script></body>
+<link rel="modulepreload" href="chunk-O557RS5J.js"><link rel="modulepreload" href="chunk-YO5GDWHF.js"><script src="polyfills-FFHMD2TL.js" type="module"></script><script src="scripts-LS2XAREJ.js" defer></script><script src="main-2TUPL73A.js" type="module"></script></body>
 </html>
